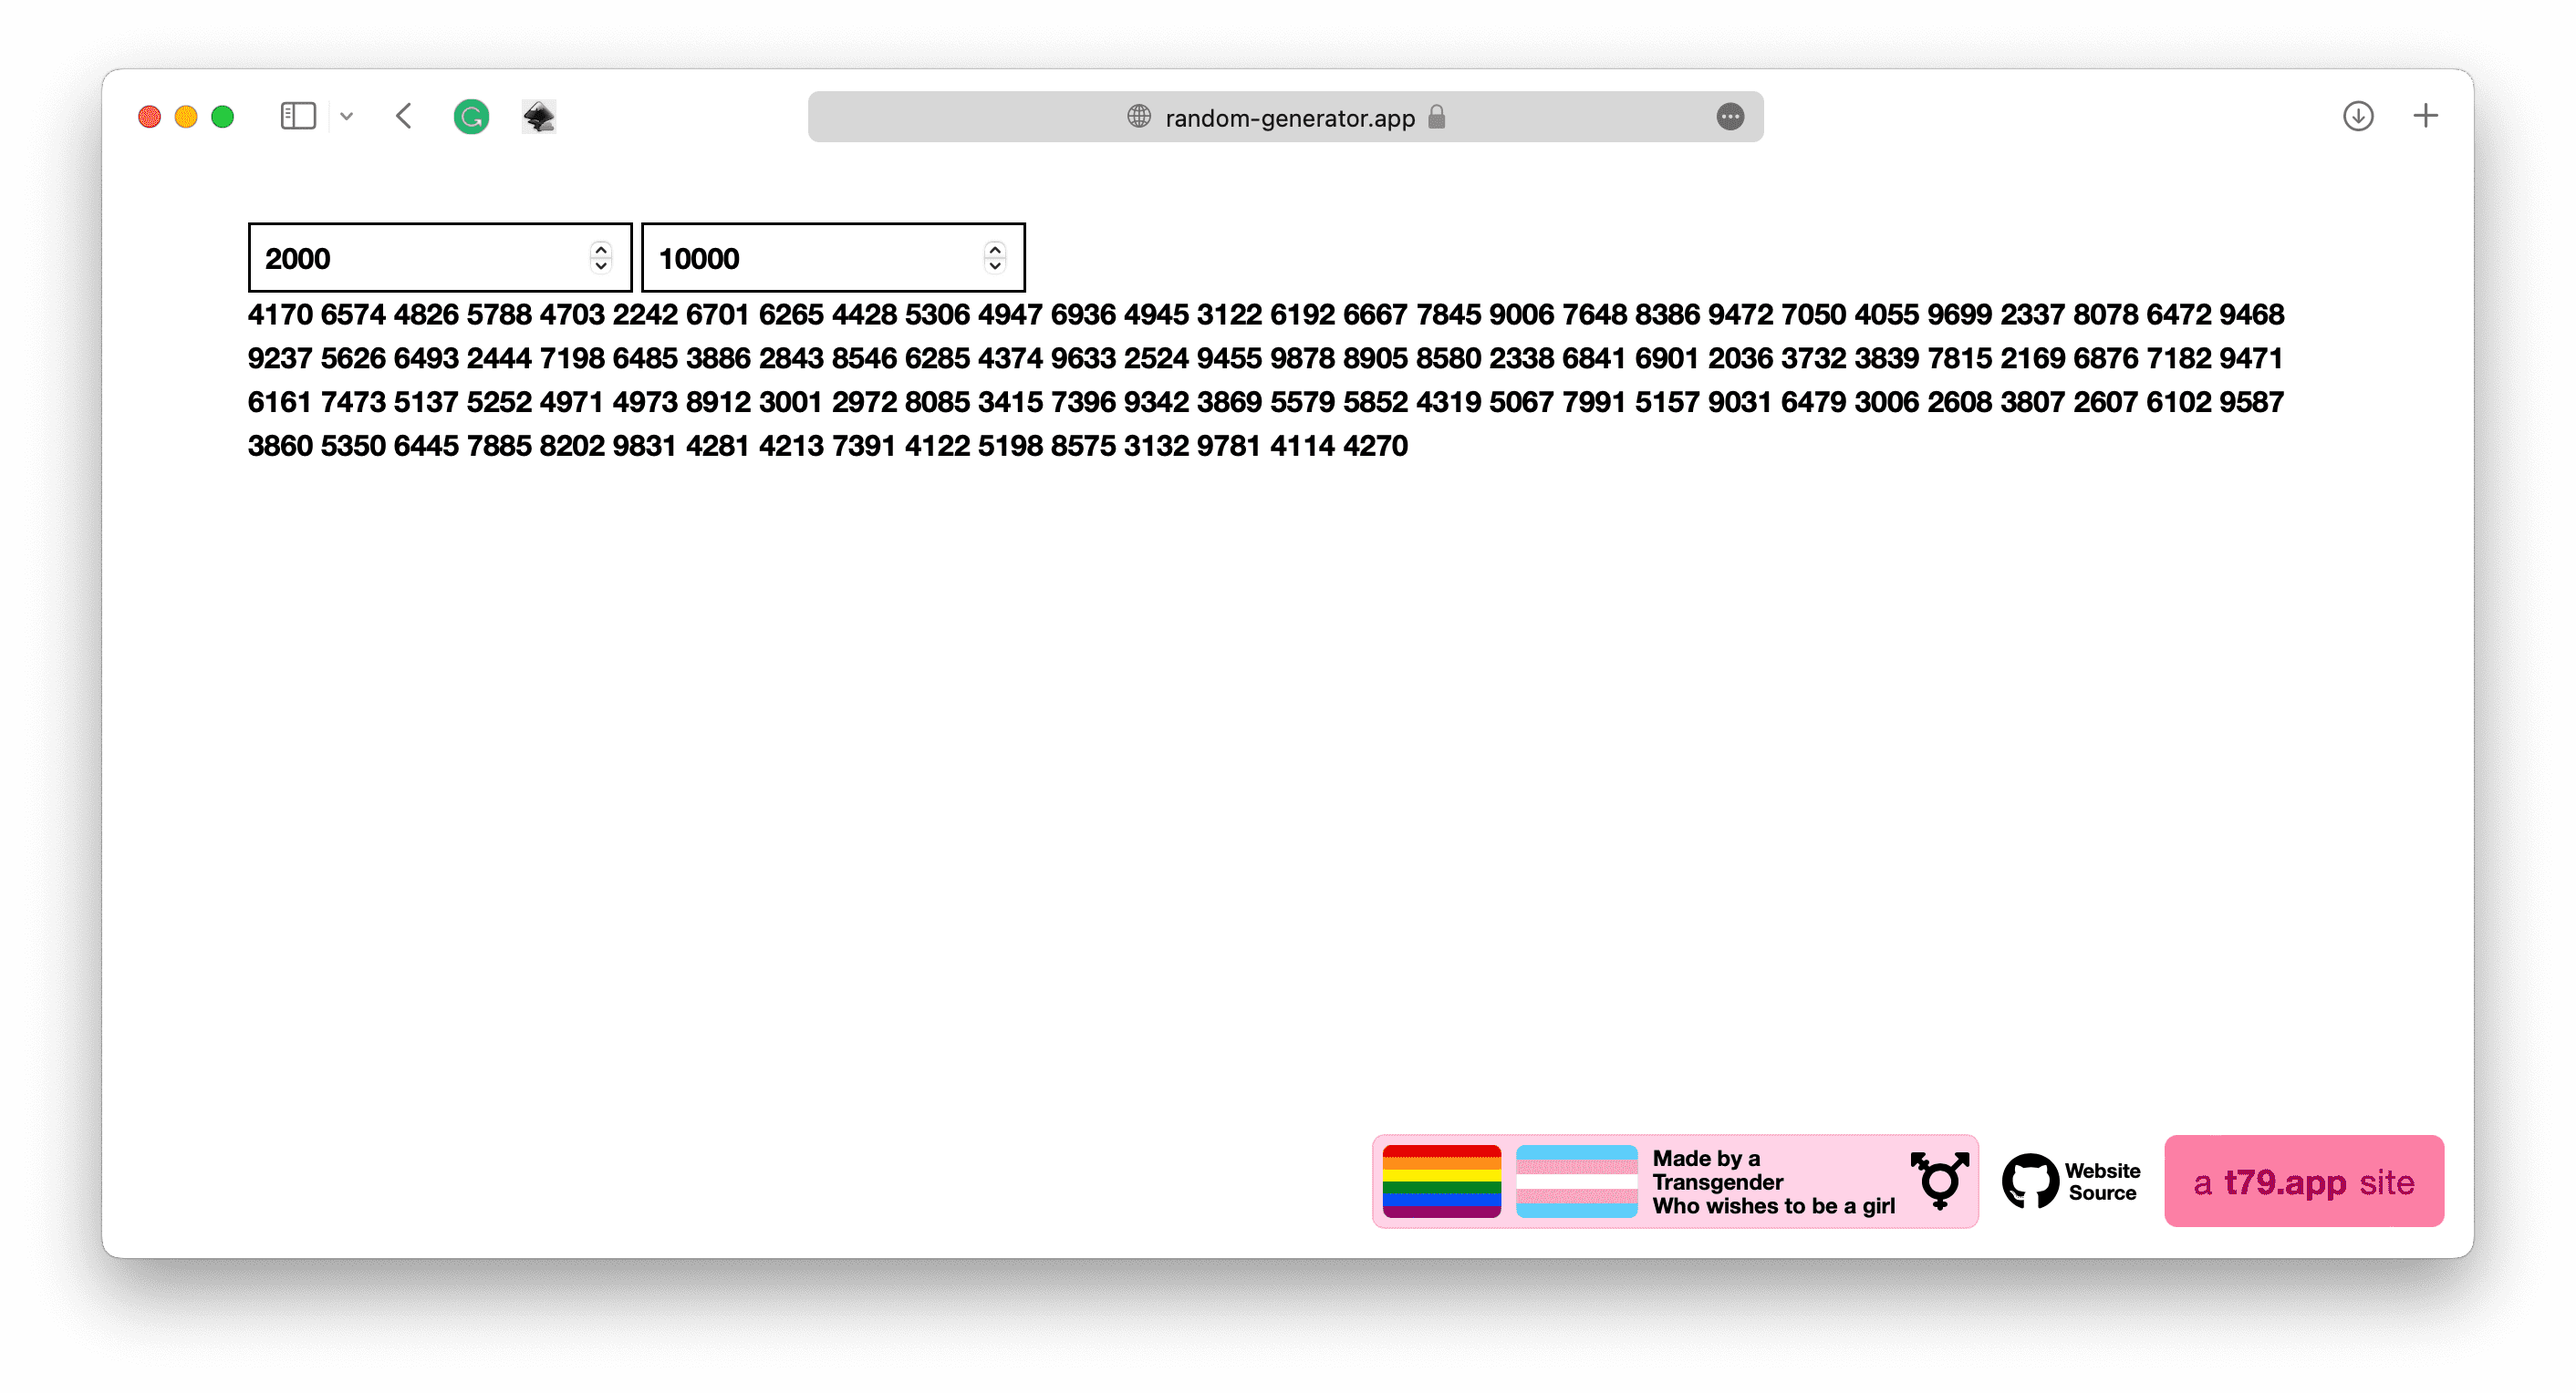
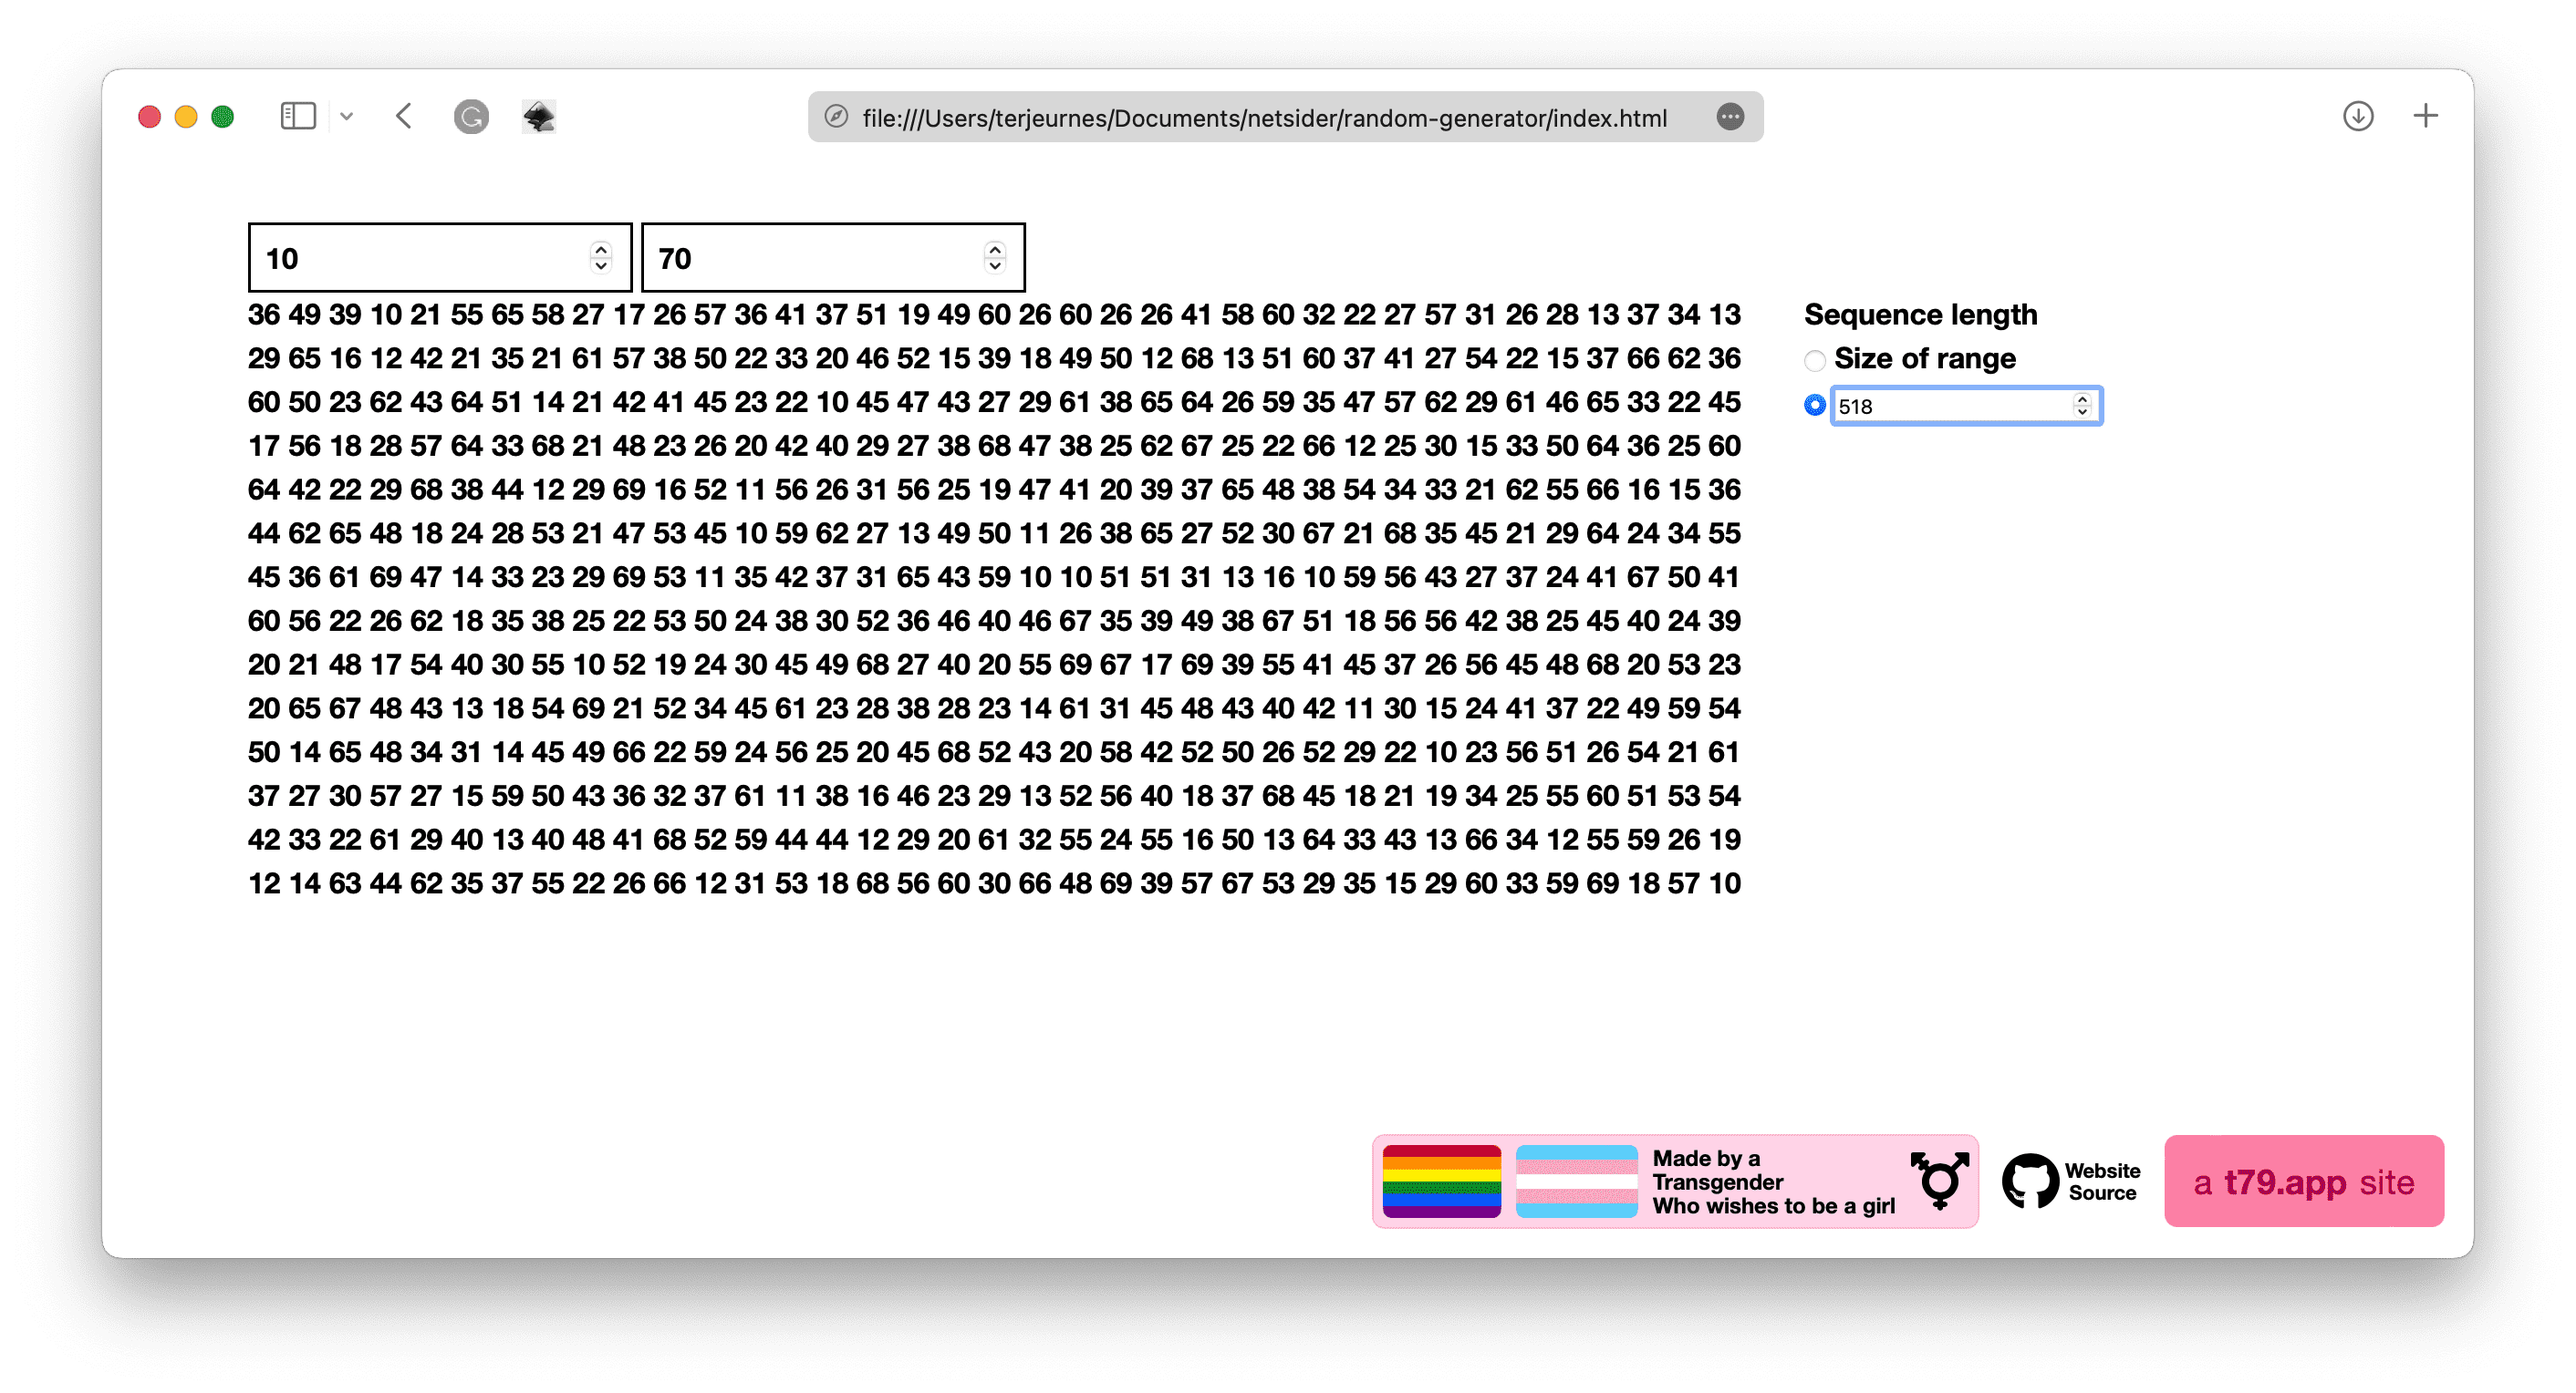
Add sequence length options.

diff --git a/random-generator.js b/random-generator.js
@@ -9,7 +9,9 @@ var t79RG = {};
 function initGenerator() {
     getGeneratorInputElements();
     getGeneratorOutputElements();
+    getGeneratorSettingsElements();
     setupGeneratorInputElements();
+    setupGeneratorSettingsElements();
 }
 
 function generateRandom(e) {
@@ -25,7 +27,15 @@ function generateRandom(e) {
 
     t79RG.generatedValues = [];
 
-    for (i = 0; i < 100; i++) {
+    let count = 0;
+    if(t79RG.sequenceLengtIsRange) {
+        count = t79RG.generateRangeSize
+    }
+    else {
+        count = parseFloat(t79RG.settingsSeqLengthNumValueElm.value);
+    }
+
+    for (i = 0; i < count; i++) {
         t79RG.generatedValues.push(getRandomValue());
     }
 
@@ -53,4 +63,27 @@ function setupGeneratorInputElements() {
 
 function getGeneratorOutputElements() {
     t79RG.outputGeneratedResultElm = document.getElementById("generator-output");
+}
+
+function getGeneratorSettingsElements() {
+    t79RG.settingsSeqLengthRangeRadioElm = document.getElementById("generator-settings-sequence-length-range");
+    t79RG.settingsSeqLengthNumRadioElm = document.getElementById("generator-settings-sequence-length-num");
+    t79RG.settingsSeqLengthNumValueElm = document.getElementById("generator-settings-sequence-length-num-input");
+}
+
+function setupGeneratorSettingsElements() {
+    t79RG.sequenceLengtIsRange = false;
+    t79RG.settingsSeqLengthNumValueElm.value = 100;
+    t79RG.settingsSeqLengthNumRadioElm.checked = true;
+    t79RG.settingsSeqLengthRangeRadioElm.addEventListener("input", function(e) {
+        t79RG.sequenceLengtIsRange = true;
+        t79RG.settingsSeqLengthNumValueElm.disabled = true;
+        generateRandom();
+    });
+    t79RG.settingsSeqLengthNumRadioElm.addEventListener("input", function(e) {
+        t79RG.sequenceLengtIsRange = false;
+        t79RG.settingsSeqLengthNumValueElm.disabled = false;
+        generateRandom();
+    });
+    t79RG.settingsSeqLengthNumValueElm.addEventListener("input", generateRandom)
 }

diff --git a/index.html b/index.html
@@ -21,7 +21,28 @@
             <input id="number-interval-input-to-field" type="number" class="number-input-fields"
                 placeholder="To inclusive">
         </div>
+
         <div id="generator-output"></div>
+
+        <div id="generator-settings">
+            <div id="generator-settings-sequence-length">
+                <div id="generstor-settings-sequence-length-header">
+                    Sequence length
+                </div>
+                <fieldset id="generator-settings-sequence-length-options">
+                    <div>
+                        <input type="radio" id="generator-settings-sequence-length-range" name="quantity">
+                        <label for="generator-settings-sequence-length-range">Range length</label>
+                    </div>
+                    <div>
+                        <input type="radio" id="generator-settings-sequence-length-num" name="quantity">
+                        <input type="number" id="generator-settings-sequence-length-num-input">
+                    </div>
+                </fieldset>
+            </div>
+
+
+        </div>
     </div>
 
     <footer>

diff --git a/random-generator.css b/random-generator.css
@@ -90,9 +90,14 @@ body {
 
 #generator-container {
     width: min(100%, 70rem);
-    flex-direction: column;
+    display: flex;
+    flex-direction: row;
     flex-wrap: wrap;
-    justify-content: flex-start;
+    justify-content:space-between;
+}
+
+#generator-input {
+    width: 100%;
 }
 
 .number-input-fields {
@@ -109,6 +114,18 @@ body {
     border-color: var(--default-color);
     box-shadow: none;
     outline: none;
+}
+
+#generator-output {
+    width: calc(100% - 18rem);
+}
+
+#generator-settings {
+    width: 17rem;
+}
+
+fieldset {
+    border: 0 solid black;
 }
 
 footer {
